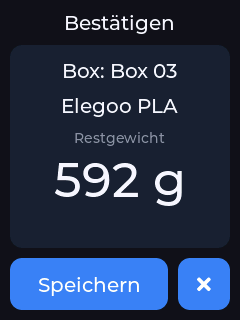
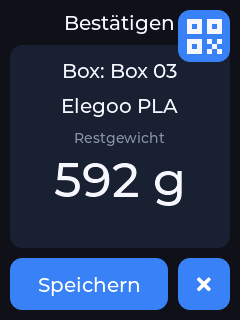
Add QR code button for virtual spool label on the confirm screen
Enable LVGL lv_qrcode and show a QR code linking to <Spoolman URL>/spool/show/<id>.

Claude-Session: https://claude.ai/code/session_01HpSZ5HxFG2nHQrECb1nxnF

Changed region(s): [[0.7292, 0.0312, 0.9625, 0.2188]]

diff --git a/firmware/src/ui/screen_weigh.cpp b/firmware/src/ui/screen_weigh.cpp
@@ -5,6 +5,7 @@
 
 #include "app/session.h"
 #include "config.h"
+#include "core/spool_url.h"
 #include "core/weigh_core.h"
 #include "i18n/i18n.h"
 #include "net/spoolman.h"
@@ -49,6 +50,7 @@ struct Ctx {
   lv_obj_t *hint = nullptr;
   lv_obj_t *emptyLabel = nullptr;
   lv_obj_t *saveBtn = nullptr;
+  lv_obj_t *qrOverlay = nullptr;  // QR-Code zur Spule (Kind des Screens, verschwindet mit ihm)
   lv_obj_t *boxNumber = nullptr;  // Neue Box: gewählte Nummer
   lv_obj_t *writeInfo = nullptr;  // Neue Box: Schreibstatus
 };
@@ -133,6 +135,81 @@ void onNewBoxWrite(lv_event_t *) {
   lv_obj_set_style_text_color(ctx->writeInfo, themeColors().warn, 0);
 }
 
+// ---- Virtuelles Spulen-Label: QR-Code mit dem Link zur Spule in Spoolman ----
+void onQrClose(lv_event_t *) {
+  if (!ctx || !ctx->qrOverlay) return;
+  lv_obj_delete_async(ctx->qrOverlay);
+  ctx->qrOverlay = nullptr;
+}
+
+void onQrOpen(lv_event_t *) {
+  if (!ctx || ctx->qrOverlay) return;
+  char url[128];
+  if (spoolShowUrl(spoolmanUrl().c_str(), ctx->spool.id, url, sizeof(url)) == 0) return;
+  lv_obj_t *ov = lv_obj_create(lv_screen_active());
+  ctx->qrOverlay = ov;
+  lv_obj_remove_style_all(ov);
+  lv_obj_add_style(ov, &theme().screen, 0);
+  lv_obj_add_flag(ov, LV_OBJ_FLAG_FLOATING);
+  lv_obj_set_size(ov, LV_PCT(100), LV_PCT(100));
+  lv_obj_set_pos(ov, 0, 0);
+  lv_obj_set_flex_flow(ov, LV_FLEX_FLOW_COLUMN);
+  lv_obj_set_flex_align(ov, LV_FLEX_ALIGN_START, LV_FLEX_ALIGN_CENTER, LV_FLEX_ALIGN_CENTER);
+  lv_obj_set_style_pad_all(ov, themePadding(), 0);
+  lv_obj_set_style_pad_row(ov, themePadding(), 0);
+  lv_obj_remove_flag(ov, LV_OBJ_FLAG_SCROLLABLE);
+
+  lv_label_set_text(makeLabel(ov, &theme().body), tr(Str::WfQrHint));
+  lv_obj_t *qr = lv_qrcode_create(ov);
+  lv_qrcode_set_size(qr, 136);
+  lv_qrcode_set_dark_color(qr, lv_color_black());
+  lv_qrcode_set_light_color(qr, lv_color_white());
+  lv_qrcode_update(qr, url, strlen(url));
+  lv_obj_set_style_border_color(qr, lv_color_white(), 0);  // ruhige Zone um den Code
+  lv_obj_set_style_border_width(qr, 6, 0);
+  lv_obj_t *u = makeLabel(ov, &theme().dim);
+  lv_label_set_text(u, url);
+  lv_obj_t *row = makeRow(ov);
+  lv_obj_set_flex_grow(row, 0);
+  uiMakeButton(row, LV_SYMBOL_CLOSE, onQrClose);
+  lv_obj_set_style_margin_top(row, 0, 0);
+}
+
+// Kleines QR-Symbol (drei Positionsmarken und ein paar Punkte), da die Schrift keins mitbringt.
+void drawQrIcon(lv_obj_t *btn) {
+  const lv_color_t fg = themeColors().text;
+  int u = themeButtonHeight() / 10;
+  if (u < 2) u = 2;
+  lv_obj_t *icon = lv_obj_create(btn);
+  lv_obj_remove_style_all(icon);
+  lv_obj_set_size(icon, 7 * u, 7 * u);
+  lv_obj_center(icon);
+  lv_obj_remove_flag(icon, LV_OBJ_FLAG_CLICKABLE);
+  auto block = [&](int gx, int gy, int n, bool hollow) {
+    lv_obj_t *b = lv_obj_create(icon);
+    lv_obj_remove_style_all(b);
+    lv_obj_remove_flag(b, LV_OBJ_FLAG_CLICKABLE);
+    lv_obj_set_pos(b, gx * u, gy * u);
+    lv_obj_set_size(b, n * u, n * u);
+    if (hollow) {
+      lv_obj_set_style_border_color(b, fg, 0);
+      lv_obj_set_style_border_width(b, u, 0);
+      lv_obj_set_style_bg_opa(b, LV_OPA_TRANSP, 0);
+    } else {
+      lv_obj_set_style_bg_opa(b, LV_OPA_COVER, 0);
+      lv_obj_set_style_bg_color(b, fg, 0);
+    }
+  };
+  block(0, 0, 3, true);
+  block(4, 0, 3, true);
+  block(0, 4, 3, true);
+  block(4, 4, 1, false);
+  block(6, 4, 1, false);
+  block(5, 5, 1, false);
+  block(4, 6, 1, false);
+  block(6, 6, 1, false);
+}
+
 void onSave(lv_event_t *) { if (ctx) ctx->reqSave = true; }
 
 void adjustEmpty(int delta) {
@@ -167,6 +244,7 @@ void build() {
   WeighState st = ctx->flow.state();
   ctx->weight = ctx->info = ctx->hint = ctx->emptyLabel = ctx->saveBtn = nullptr;
   ctx->boxNumber = ctx->writeInfo = nullptr;
+  ctx->qrOverlay = nullptr;
   lv_obj_t *scr = uiNewScreen();
   const ThemeColors &c = themeColors();
   char buf[96];
@@ -252,6 +330,13 @@ void build() {
       lv_obj_t *cancel = uiMakeButton(row, LV_SYMBOL_CLOSE, onCancel);  // schmal, damit "Speichern" Platz hat
       lv_obj_set_flex_grow(cancel, 0);
       lv_obj_set_width(cancel, themeButtonHeight());
+      if (ctx->spool.id >= 0 && spoolmanUrl().length() > 0) {  // QR-Code zur Spule (virtuelles Label), rechts neben dem Titel
+        lv_obj_t *qr = uiMakeButton(scr, "", onQrOpen);
+        lv_obj_add_flag(qr, LV_OBJ_FLAG_FLOATING);
+        lv_obj_set_size(qr, themeButtonHeight(), themeButtonHeight());
+        lv_obj_align(qr, LV_ALIGN_TOP_RIGHT, 0, 0);
+        drawQrIcon(qr);
+      }
       uiNavigate(scr);
       return;
     }

diff --git a/firmware/test/test_spoolurl/test_spoolurl.cpp b/firmware/test/test_spoolurl/test_spoolurl.cpp
@@ -1,0 +1,44 @@
+#include <string.h>
+#include <unity.h>
+
+#include "core/spool_url.h"
+
+void setUp() {}
+void tearDown() {}
+
+void test_basic() {
+  char b[96];
+  TEST_ASSERT_EQUAL(38, spoolShowUrl("http://192.168.1.50:7912", 42, b, sizeof(b)));
+  TEST_ASSERT_EQUAL_STRING("http://192.168.1.50:7912/spool/show/42", b);
+}
+
+void test_trailing_slash() {
+  char b[96];
+  spoolShowUrl("http://spoolman.local:7912//", 7, b, sizeof(b));
+  TEST_ASSERT_EQUAL_STRING("http://spoolman.local:7912/spool/show/7", b);
+}
+
+void test_invalid() {
+  char b[96];
+  TEST_ASSERT_EQUAL(0, spoolShowUrl("", 1, b, sizeof(b)));
+  TEST_ASSERT_EQUAL(0, spoolShowUrl("///", 1, b, sizeof(b)));
+  TEST_ASSERT_EQUAL(0, spoolShowUrl(nullptr, 1, b, sizeof(b)));
+  TEST_ASSERT_EQUAL(0, spoolShowUrl("http://x", -1, b, sizeof(b)));
+  TEST_ASSERT_EQUAL_STRING("", b);
+}
+
+void test_too_small() {
+  char b[10];
+  TEST_ASSERT_EQUAL(0, spoolShowUrl("http://192.168.1.50:7912", 42, b, sizeof(b)));
+  TEST_ASSERT_EQUAL_STRING("", b);
+  TEST_ASSERT_EQUAL(0, spoolShowUrl("http://x", 1, nullptr, 0));
+}
+
+int main() {
+  UNITY_BEGIN();
+  RUN_TEST(test_basic);
+  RUN_TEST(test_trailing_slash);
+  RUN_TEST(test_invalid);
+  RUN_TEST(test_too_small);
+  return UNITY_END();
+}

diff --git a/firmware/tools/screenshots/main.cpp b/firmware/tools/screenshots/main.cpp
@@ -455,5 +455,25 @@ int main(int argc, char **argv) {
   mock.weighOnly = false;
   uiShowHome();
 
+  // --- QR-Code zur Spule (virtuelles Label), hinten angehängt ---
+  setWeight(0);
+  setBoxTag(false);
+  weighFlowStart(sp, "04A1B2C3D4E5F6", "Fabian");
+  advance(2800);
+  setWeight(412, false);
+  setBoxTag(true);
+  advance(400);
+  setWeight(412);
+  advance(400);
+  setWeight(412, false);
+  setBoxTag(true);
+  advance(400);
+  setWeight(1254);
+  advance(400);
+  lv_obj_send_event(lv_obj_get_child(lv_screen_active(), 3), LV_EVENT_CLICKED, nullptr);  // QR-Button neben dem Titel
+  advance(100);
+  shot("qr_spule");
+  uiShowHome();
+
   return 0;
 }

diff --git a/firmware/src/core/spool_url.cpp b/firmware/src/core/spool_url.cpp
@@ -1,0 +1,19 @@
+#include "core/spool_url.h"
+
+#include <stdio.h>
+#include <string.h>
+
+size_t spoolShowUrl(const char *baseUrl, int spoolId, char *out, size_t cap) {
+  if (!out || cap == 0) return 0;
+  out[0] = '\0';
+  if (!baseUrl || spoolId < 0) return 0;
+  size_t n = strlen(baseUrl);
+  while (n > 0 && baseUrl[n - 1] == '/') n--;
+  if (n == 0) return 0;
+  int len = snprintf(out, cap, "%.*s/spool/show/%d", (int)n, baseUrl, spoolId);
+  if (len <= 0 || (size_t)len >= cap) {
+    out[0] = '\0';
+    return 0;
+  }
+  return (size_t)len;
+}

diff --git a/firmware/src/i18n/i18n.cpp b/firmware/src/i18n/i18n.cpp
@@ -129,6 +129,7 @@ const char *const texts[(int)Str::Count][2] = {
     /* WfSaveFailed */ {"Speichern fehlgeschlagen", "Saving failed"},
     /* WfNewBox */ {"Neue Box anlegen", "Set up new box"},
     /* WfNewBoxHint */ {"Der Tag der Box ist leer oder unbekannt.", "The box tag is empty or unknown."},
+    /* WfQrHint */ {"QR-Code scannen", "Scan QR code"},
     /* SwWeigh */ {"Filament wiegen", "Weigh filament"},
     /* SwChoose */ {"Was kommt auf die Waage?", "What goes on the scale?"},
     /* SwSpoolOnly */ {"Nur Spule", "Spool only"},

diff --git a/firmware/tools/screenshots/stubs.cpp b/firmware/tools/screenshots/stubs.cpp
@@ -80,6 +80,7 @@ SpoolmanResult spoolmanWriteResult() { return mock.write; }
 void spoolmanRequestLookup(const char *, int) {}
 void spoolmanRequestUpdate(int, float, const char *, const char *) {}
 void spoolmanRequestLinkTag(int, const char *) {}
+String spoolmanUrl() { return "http://192.168.178.40:7912"; }
 int spoolmanQueueCount() { return mock.queued; }
 void spoolmanRequestList() {}
 void spoolmanListResult(SpoolListResult &out) { out = mock.list; }

diff --git a/firmware/src/core/spool_url.h b/firmware/src/core/spool_url.h
@@ -1,0 +1,6 @@
+#pragma once
+#include <stddef.h>
+
+// Link zur Spule in der Spoolman-Weboberfläche: "<Spoolman-URL>/spool/show/<id>".
+// Schrägstriche am Ende der Basis-URL werden entfernt. Rückgabe: Länge, 0 bei leerer Basis, id < 0 oder zu kleinem Puffer.
+size_t spoolShowUrl(const char *baseUrl, int spoolId, char *out, size_t cap);

diff --git a/firmware/include/lv_conf.h b/firmware/include/lv_conf.h
@@ -1015,7 +1015,7 @@
 #define LV_USE_RLE 0
 
 /** QR code library */
-#define LV_USE_QRCODE 0
+#define LV_USE_QRCODE 1
 
 /** Barcode code library */
 #define LV_USE_BARCODE 0

diff --git a/firmware/src/i18n/i18n.h b/firmware/src/i18n/i18n.h
@@ -127,6 +127,7 @@ enum class Str : uint8_t {
   WfSaveFailed,
   WfNewBox,
   WfNewBoxHint,
+  WfQrHint,
   SwWeigh,
   SwChoose,
   SwSpoolOnly,
